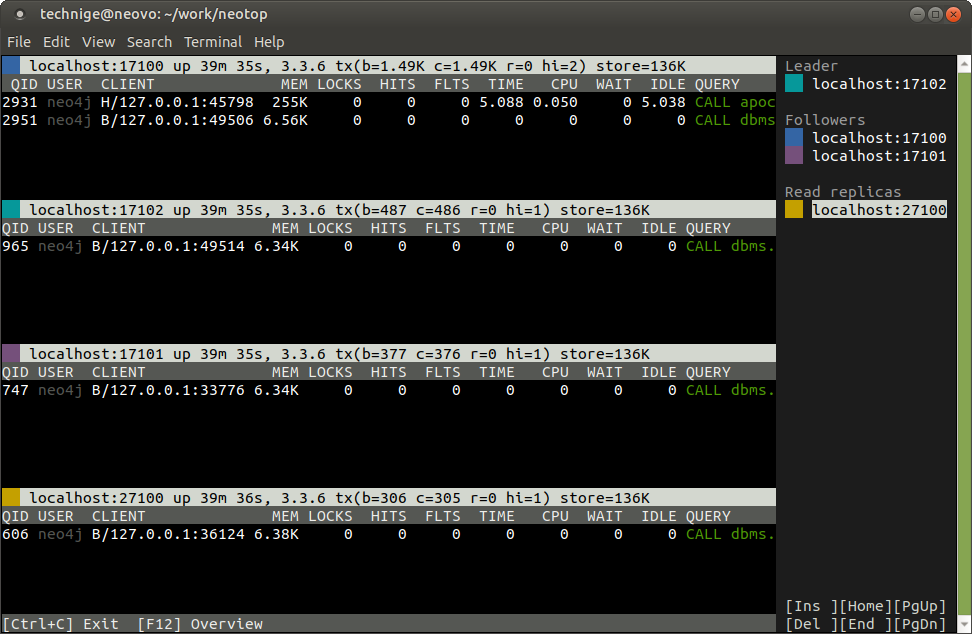
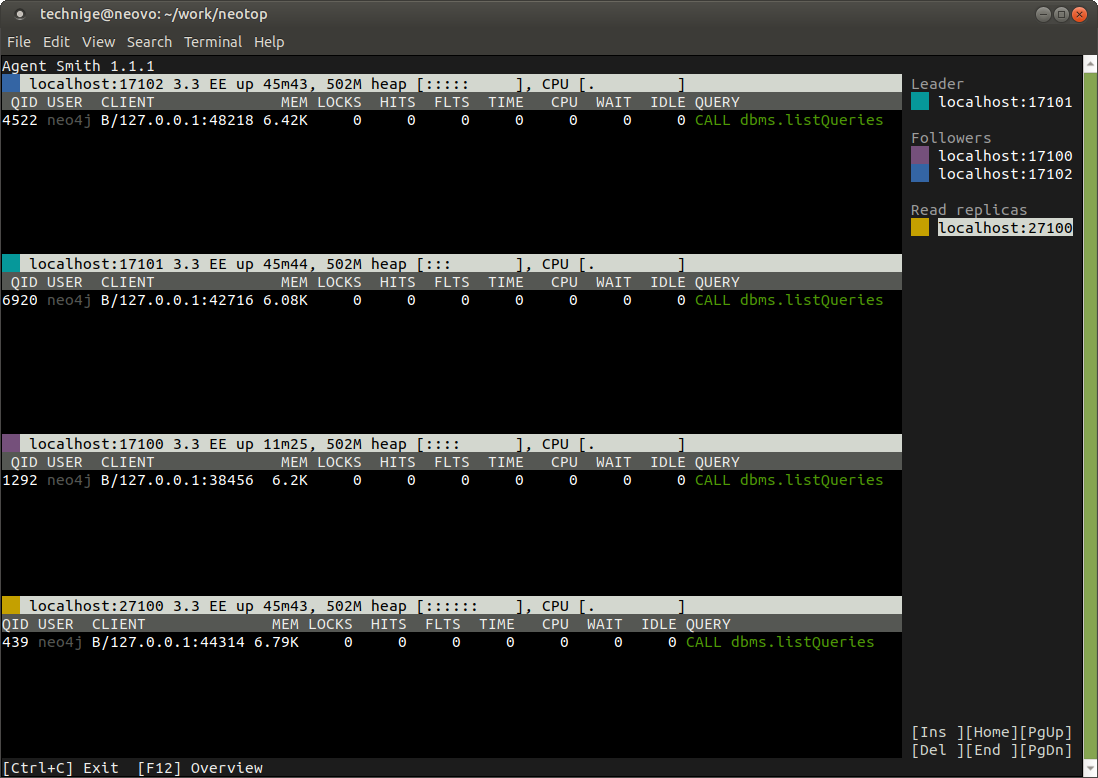
Rename

Changed region(s): [[0.0, 0.0, 1.0, 1.0], [0.9259, 0.0, 1.0, 0.03]]

diff --git a/setup.py b/setup.py
@@ -22,7 +22,7 @@ try:
 except ImportError:
     from distutils.core import setup, find_packages
 
-from neotop.meta import __author__, __email__, __license__, __package__, __version__
+from agentsmith.meta import __author__, __email__, __license__, __package__, __version__
 
 
 with open(path_join(dirname(__file__), "README.rst")) as f:
@@ -32,14 +32,14 @@ packages = find_packages(exclude=[])
 package_metadata = {
     "name": __package__,
     "version": __version__,
-    "description": "Neo4j query monitor",
+    "description": "Neo4j monitor",
     "long_description": README,
     "author": __author__,
     "author_email": __email__,
-    "url": "http://github.com/technige/neotop",
+    "url": "http://github.com/technige/agentsmith",
     "entry_points": {
         "console_scripts": [
-            "neotop = neotop.__main__:main",
+            "agentsmith = agentsmith.__main__:main",
         ],
     },
     "packages": packages,
@@ -50,7 +50,6 @@ package_metadata = {
     ],
     "license": __license__,
     "classifiers": [
-        "Development Status :: 6 - Mature",
         "Environment :: Console",
         "Intended Audience :: Developers",
         "Intended Audience :: Information Technology",

diff --git a/agentsmith/application.py b/agentsmith/application.py
@@ -32,9 +32,9 @@ from prompt_toolkit.layout.containers import Window, VSplit, HSplit, WindowAlign
 from prompt_toolkit.layout.layout import Layout
 from prompt_toolkit.styles import Style
 
-from neotop.controls.overview import OverviewControl, StyleList
-from neotop.controls.server import ServerControl
-from neotop.meta import __version__
+from agentsmith.controls.overview import OverviewControl, StyleList
+from agentsmith.controls.server import ServerControl
+from agentsmith.meta import __version__
 
 
 NEO4J_ADDRESS = getenv("NEO4J_ADDRESS", "localhost:7687")

diff --git a/agentsmith/__main__.py b/agentsmith/__main__.py
@@ -40,7 +40,7 @@ If the port is omitted, 7687 is assumed.
                 envvar="NEO4J_ADDRESS",
                 default="localhost:7687")
 def main(address=None, user=None, password=None):
-    from neotop.application import Smith
+    from agentsmith.application import Smith
     raise SystemExit(Smith(
         address=address,
         user=user,

diff --git a/agentsmith/monitor.py b/agentsmith/monitor.py
@@ -23,7 +23,7 @@ from threading import Thread, Lock
 
 from neo4j.v1 import GraphDatabase, CypherError, ServiceUnavailable, READ_ACCESS, sleep, SessionExpired
 
-from neotop.units import Load, BytesAmount, Time, Product, Amount
+from agentsmith.units import Load, BytesAmount, Time, Product, Amount
 
 
 def nested_get(d, *keys):

diff --git a/agentsmith/meta.py b/agentsmith/meta.py
@@ -20,5 +20,5 @@ __author__ = "Nigel Small <technige@nige.tech>"
 __copyright__ = "2018, Nigel Small"
 __email__ = "technige@nige.tech"
 __license__ = "Apache License, Version 2.0"
-__package__ = "neotop"
+__package__ = "agentsmith"
 __version__ = "1.1.1"

diff --git a/agentsmith/controls/data.py b/agentsmith/controls/data.py
@@ -19,7 +19,7 @@
 from prompt_toolkit.layout import UIControl
 from prompt_toolkit.utils import Event
 
-from neotop.monitor import ServerMonitor
+from agentsmith.monitor import ServerMonitor
 
 
 class DataControl(UIControl):

diff --git a/agentsmith/controls/server.py b/agentsmith/controls/server.py
@@ -20,7 +20,7 @@ from __future__ import unicode_literals
 
 from prompt_toolkit.layout import UIContent
 
-from neotop.controls.data import DataControl
+from agentsmith.controls.data import DataControl
 
 
 DEFAULT_FIELDS = [

diff --git a/agentsmith/controls/overview.py b/agentsmith/controls/overview.py
@@ -19,7 +19,7 @@
 from neo4j.v1 import urlparse
 from prompt_toolkit.layout import UIContent
 
-from neotop.controls.data import DataControl
+from agentsmith.controls.data import DataControl
 
 
 class StyleList(object):
